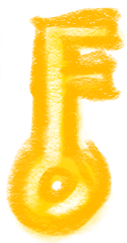
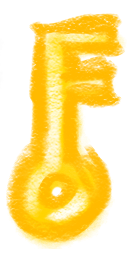
Implemented keys and gates

Changed region(s): [[0.0472, 0.0288, 0.9921, 1.0], [0.5433, 0.2305, 0.5669, 0.2593]]

diff --git a/public_html/src/MyGame/Objects/Maze.js b/public_html/src/MyGame/Objects/Maze.js
@@ -9,7 +9,7 @@
 /* find out more about jslint: http://www.jslint.com/help.html */
 
 "use strict";
-function Maze(texture, hazardTex, x, y, w, h, res, frct, p) {
+function Maze(texture, hazardTex, gateTex, keyTex, x, y, w, h, res, frct, p) {
     
     this.mMazeTexture = new TextureRenderable(texture);
     this.mMazeTexture.getXform().setPosition(x, y);
@@ -17,8 +17,10 @@ function Maze(texture, hazardTex, x, y, w, h, res, frct, p) {
 
     this.mShapes = new GameObjectSet();
     this.mHazards = new GameObjectSet();
+    this.mGates = new GameObjectSet();
+    this.mKeys = new GameObjectSet();
     this.mPset = new ParticleGameObjectSet();
-    this.createBounds(hazardTex, x, y, w, h, res, frct);
+    this.createBounds(hazardTex, gateTex, keyTex, x, y, w, h, res, frct);
     this.rep = p;
     this.pos = [x, y];
 }
@@ -26,6 +28,7 @@ function Maze(texture, hazardTex, x, y, w, h, res, frct, p) {
 Maze.prototype.draw = function (aCamera) {
     this.mShapes.draw(aCamera);
     this.mHazards.draw(aCamera);
+    this.mKeys.draw(aCamera);
     this.mMazeTexture.draw(aCamera);
     if (this.rep === true) {
         this.mPset.draw(aCamera);
@@ -35,6 +38,7 @@ Maze.prototype.draw = function (aCamera) {
 Maze.prototype.update = function () {
     this.mShapes.update();
     this.mHazards.update();
+    this.mKeys.update();
     if (this.rep === true) {
         this.mPset.update();
         this.particleCollision();
@@ -45,13 +49,33 @@ Maze.prototype.update = function () {
 Maze.prototype.testHazards = function (gameobj, wcCoord) {
     var i;
     for (i = 0; i < this.mHazards.mSet.length; i++) {
-        if (gameobj.getBBox().intersectsBound(this.mHazards.mSet[i].getBBox()) && gameobj.pixelTouches(this.mHazards.mSet[i], wcCoord))
+        if (gameobj.pixelTouches(this.mHazards.mSet[i], wcCoord))
             return true;
     }
     return false;
 };
 
-Maze.prototype.createBounds = function (hazardTex, x, y, w, h, res, frct, art) {
+Maze.prototype.bumpIntoGates = function (gameobj) {
+    var i;
+    var wcCoord = [];
+    for (i = 0; i < this.mGates.mSet.length; i++) {
+        if (gameobj.pixelTouches(this.mGates.mSet[i], wcCoord))
+            this.mGates.mSet[i].open();
+    }
+};
+
+Maze.prototype.pickupKeys = function (gameobj) {
+    var i;
+    var wcCoord = [];
+    for (i = 0; i < this.mKeys.mSet.length; i++) {
+        if (gameobj.pixelTouches(this.mKeys.mSet[i], wcCoord)) {
+            this.mKeys.mSet[i].pickup();
+            this.mKeys.mSet.splice(i--, 1);
+        }
+    }
+};
+
+Maze.prototype.createBounds = function (hazardTex, gateTex, keyTex, x, y, w, h, res, frct, art) {
 
     var tx = x - w/2;
     var ty = y + h/2;
@@ -71,6 +95,22 @@ Maze.prototype.createBounds = function (hazardTex, x, y, w, h, res, frct, art) {
                               ty - ((y + 0.5) * ps * sy), 
                               direction);
         maze.mHazards.addToSet(spike);
+    }
+    function gateAtPixel(maze, x, y, direction) {
+        var gate = new Gate(gateTex,
+                              tx + ((x + 0.5) * ps * sx), 
+                              ty - ((y + 0.5) * ps * sy), 
+                              direction);
+        maze.mShapes.addToSet(gate);
+        maze.mGates.addToSet(gate);
+        return gate;
+    }
+    function keyAtPixel(maze, x, y, gate) {
+        var key = new Key(keyTex,
+                              tx + ((x + 0.5) * ps * sx), 
+                              ty - ((y + 0.5) * ps * sy), 
+                              gate);
+        maze.mKeys.addToSet(key);
     }
     
     wallAtPixels(this, 0,   1,  14, 4);
@@ -101,6 +141,12 @@ Maze.prototype.createBounds = function (hazardTex, x, y, w, h, res, frct, art) {
     
     spikeAtPixel(this, 10, 6, 0);
     spikeAtPixel(this, 20, 6, 0);
+    
+    var gate = gateAtPixel(this, 15, 3, 0);
+    keyAtPixel(this, 4, 5, gate);
+    
+    gate = gateAtPixel(this, 22, 11, 0);
+    keyAtPixel(this, 16, 10, gate);
 };
 
 Maze.prototype.lightOn = function () {

diff --git a/public_html/src/MyGame/MazeLevel.js b/public_html/src/MyGame/MazeLevel.js
@@ -14,9 +14,11 @@
 function MazeLevel() {
     this.kBalloonTex = "assets/balloon_lres.png";
     this.kSpikeTex = "assets/spike_lres.png";
+    this.kGateTex = "assets/gate.png";
+    this.kKeyTex = "assets/key.png";
     this.kMazeWalls = "assets/maze.png";
     
-    this.kWinHeight = 80; // height balloons must reach to win
+    this.kWinHeight = 90; // height balloons must reach to win
     
     // The camera to view the scene
     this.mLeftCamera = null;
@@ -42,12 +44,16 @@ MazeLevel.prototype.loadScene = function () {
     gEngine.Textures.loadTexture(this.kBalloonTex);
     gEngine.Textures.loadTexture(this.kSpikeTex);
     gEngine.Textures.loadTexture(this.kMazeWalls);
+    gEngine.Textures.loadTexture(this.kGateTex);
+    gEngine.Textures.loadTexture(this.kKeyTex);
 };
 
 MazeLevel.prototype.unloadScene = function () {
-    gEngine.Textures.loadTexture(this.kBalloonTex);
-    gEngine.Textures.loadTexture(this.kSpikeTex);
-    gEngine.Textures.loadTexture(this.kMazeWalls);
+    gEngine.Textures.unloadTexture(this.kBalloonTex);
+    gEngine.Textures.unloadTexture(this.kSpikeTex);
+    gEngine.Textures.unloadTexture(this.kMazeWalls);
+    gEngine.Textures.unloadTexture(this.kGateTex);
+    gEngine.Textures.unloadTexture(this.kKeyTex);
     
     if (this.mNextState === "Win") {
         alert("You win!");
@@ -86,7 +92,7 @@ MazeLevel.prototype.initialize = function () {
     
     // sets the background to gray
     gEngine.DefaultResources.setGlobalAmbientIntensity(3);
-    this.world = new Maze(this.kMazeWalls, this.kSpikeTex, 0,0,100,100,.3,.7,false); 
+    this.world = new Maze(this.kMazeWalls, this.kSpikeTex, this.kGateTex, this.kKeyTex, 0,0,100,100,.3,.7,false); 
     
     this.mLeftBalloon = new Balloon(this.kBalloonTex, -30, -40);
     this.mLeftBalloon.getRenderable().setColor([1,0,0,0.5]);
@@ -173,9 +179,13 @@ MazeLevel.prototype.update = function () {
     if (this.world.testHazards(this.mRightBalloon, wcCoord))
         this.popBalloon(this.mRightBalloon);
     
-    // Move cameras
-    this.updateCameras();
+    this.world.bumpIntoGates(this.mLeftBalloon);
+    this.world.bumpIntoGates(this.mRightBalloon);
     
+    this.world.pickupKeys(this.mLeftBalloon);
+    this.world.pickupKeys(this.mRightBalloon);
+    
+    // Test balloon heights for win condition
     var up = this.mLeftCamera.getUpVector();
     var offset = [0,0];
     vec2.subtract(offset, this.mLeftBalloon.getXform().getPosition(), this.world.pos);
@@ -184,4 +194,7 @@ MazeLevel.prototype.update = function () {
     var rightHeight = vec2.dot(offset, up);
     if (leftHeight > this.kWinHeight && rightHeight > this.kWinHeight)
         this.win();
+    
+    // Move cameras
+    this.updateCameras();
 };

diff --git a/public_html/src/MyGame/Objects/Gate.js b/public_html/src/MyGame/Objects/Gate.js
@@ -1,0 +1,55 @@
+/* File: Gate.js 
+ *
+ * Creates and initializes a Gate object
+ * overrides the update function of GameObject to define
+ * simple sprite animation behavior behavior
+ */
+
+/*jslint node: true, vars: true */
+/*global gEngine: false, GameObject: false, TextureRenderable: false */
+/* find out more about jslint: http://www.jslint.com/help.html */
+
+"use strict";  // Operate in Strict mode such that variables must be declared before used!
+
+var kGateWidth = 6.0;
+var kGateHeight = 6.0;
+
+function Gate(texture, atX, atY, direction) {
+        
+    var w = kGateWidth;
+    var h = kGateHeight;
+    
+    this.mLocked = true;
+    
+    this.mGate = new SpriteRenderable(texture);
+    this.mGate.setColor([1,1,1,0]);
+    this.mGate.getXform().setPosition(atX, atY);
+    this.mGate.getXform().setSize(w, h);
+    //this.mGate.setElementPixelPositions(420, 640, 1024, 784);
+    this.mGate.getXform().setRotationInRad(Math.PI / 2 * direction);
+
+    GameObject.call(this, this.mGate);
+    
+    var r = new RigidRectangle(this.getXform(), w, h / 8); 
+    r.setVelocity(0, 0);
+    this.setRigidBody(r);
+    r.setRestitution(0);
+    r.setFriction(100);
+    r.setMass(100);
+}
+gEngine.Core.inheritPrototype(Gate, GameObject);
+
+Gate.prototype.unlock = function () {
+    this.mLocked = false;
+};
+
+Gate.prototype.open = function () {
+    if (!this.mLocked) {
+        this.mDrawRenderable = false;
+        //this.setRigidBody(null);
+        this.getXform().setPosition(10000, 10000);
+    }
+};
+
+Gate.prototype.update = function (aCamera) {
+};

diff --git a/public_html/src/MyGame/Objects/Key.js b/public_html/src/MyGame/Objects/Key.js
@@ -1,0 +1,38 @@
+/* File: Key.js 
+ *
+ * Creates and initializes a Key object
+ * overrides the update function of GameObject to define
+ * simple sprite animation behavior behavior
+ */
+
+/*jslint node: true, vars: true */
+/*global gEngine: false, GameObject: false, TextureRenderable: false */
+/* find out more about jslint: http://www.jslint.com/help.html */
+
+"use strict";  // Operate in Strict mode such that variables must be declared before used!
+
+var kKeyWidth = 2.0;
+var kKeyHeight = 4.0;
+
+function Key(texture, atX, atY, gate) {
+        
+    var w = kKeyWidth;
+    var h = kKeyHeight;
+    
+    this.mGate = gate;
+    
+    this.mKey = new SpriteRenderable(texture);
+    this.mKey.setColor([1,1,1,0]);
+    this.mKey.getXform().setPosition(atX, atY);
+    this.mKey.getXform().setSize(w, h);
+
+    GameObject.call(this, this.mKey);
+}
+gEngine.Core.inheritPrototype(Key, GameObject);
+
+Key.prototype.pickup = function () {
+    this.mGate.unlock();
+};
+
+Key.prototype.update = function (aCamera) {
+};

diff --git a/public_html/index.html b/public_html/index.html
@@ -117,6 +117,8 @@
         <script type="text/javascript" src="src/MyGame/Objects/Maze.js"></script>
         <script type="text/javascript" src="src/MyGame/Objects/Balloon.js"></script>
         <script type="text/javascript" src="src/MyGame/Objects/Spike.js"></script>
+        <script type="text/javascript" src="src/MyGame/Objects/Gate.js"></script>
+        <script type="text/javascript" src="src/MyGame/Objects/Key.js"></script>
         <script type="text/javascript" src="src/MyGame/MazeLevel.js"></script>
         
         

diff --git a/public_html/src/MyGame/Objects/Balloon.js b/public_html/src/MyGame/Objects/Balloon.js
@@ -30,10 +30,6 @@ function Balloon(spriteTexture, atX, atY) {
     GameObject.call(this, this.mBalloon);
     
     var r = new RigidCircle(this.getXform(), 0.35*Math.sqrt(w*w + h*h)); 
-    var vx = (Math.random() - 0.5);
-    var vy = (Math.random() - 0.5);
-    var speed = 20 + Math.random() * 10;
-    r.setVelocity(vx * speed, vy * speed);
     this.setRigidBody(r);
     r.setRestitution(3.0);
     r.setFriction(.6);
